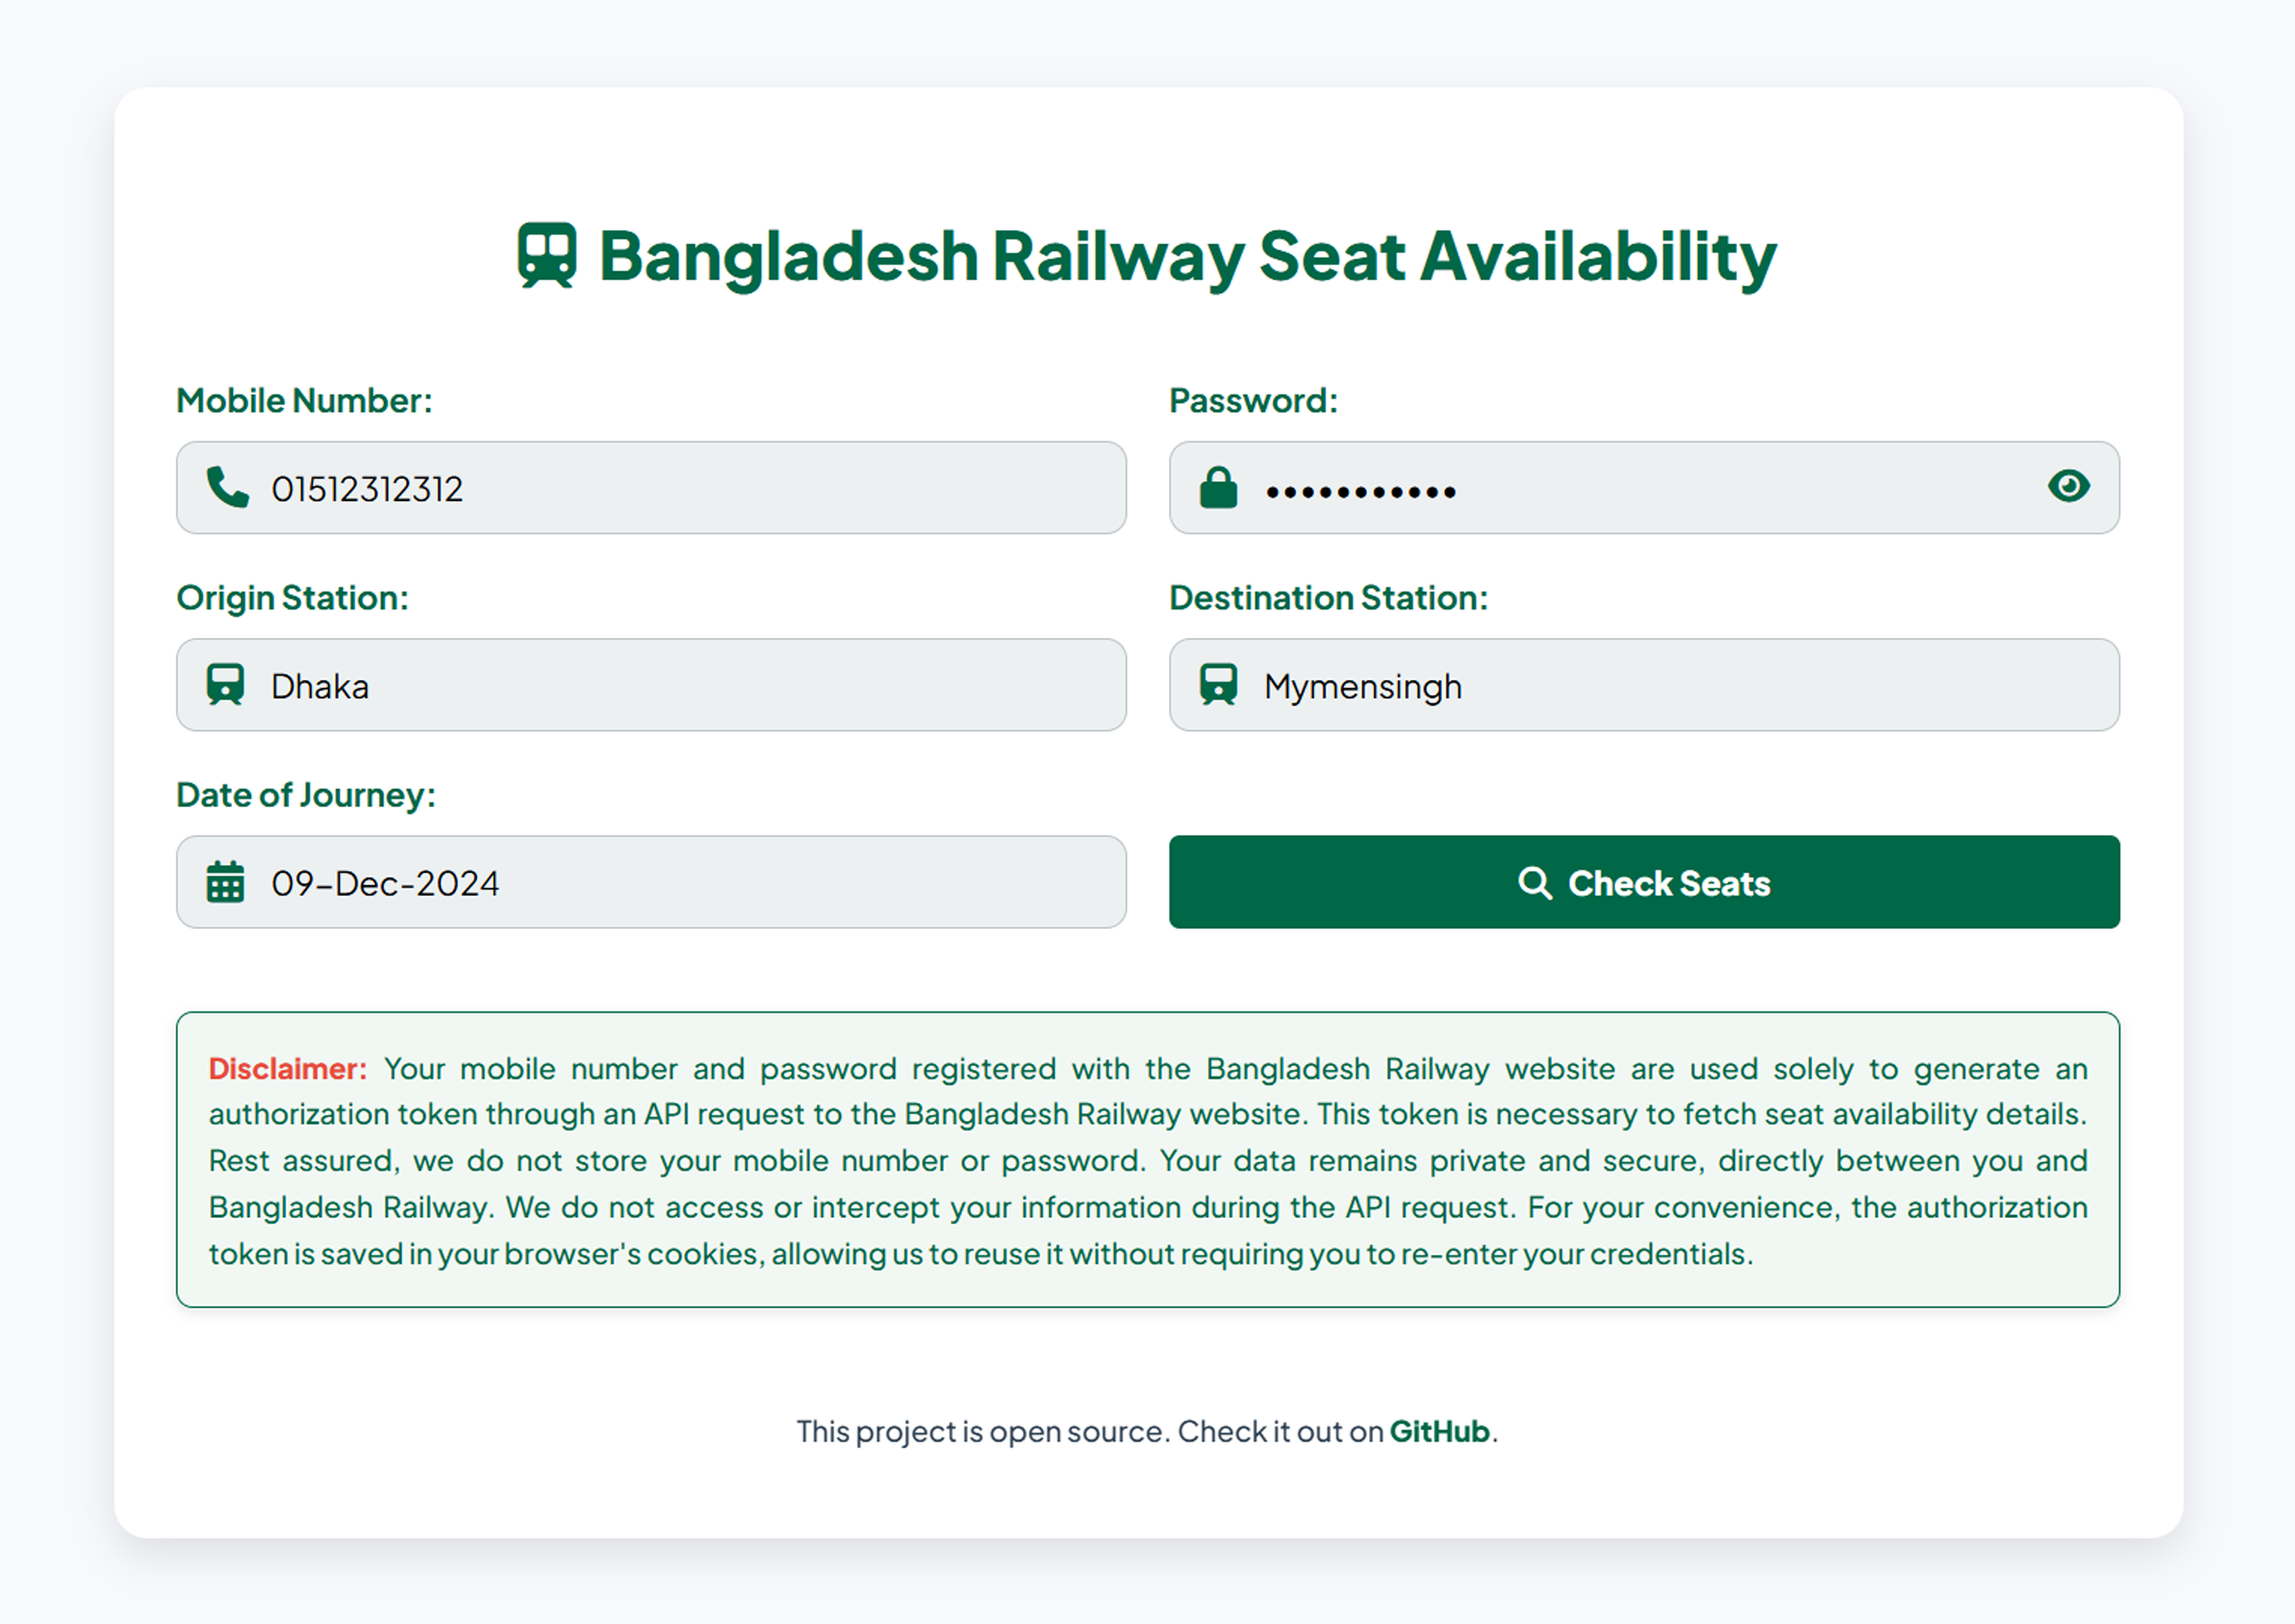
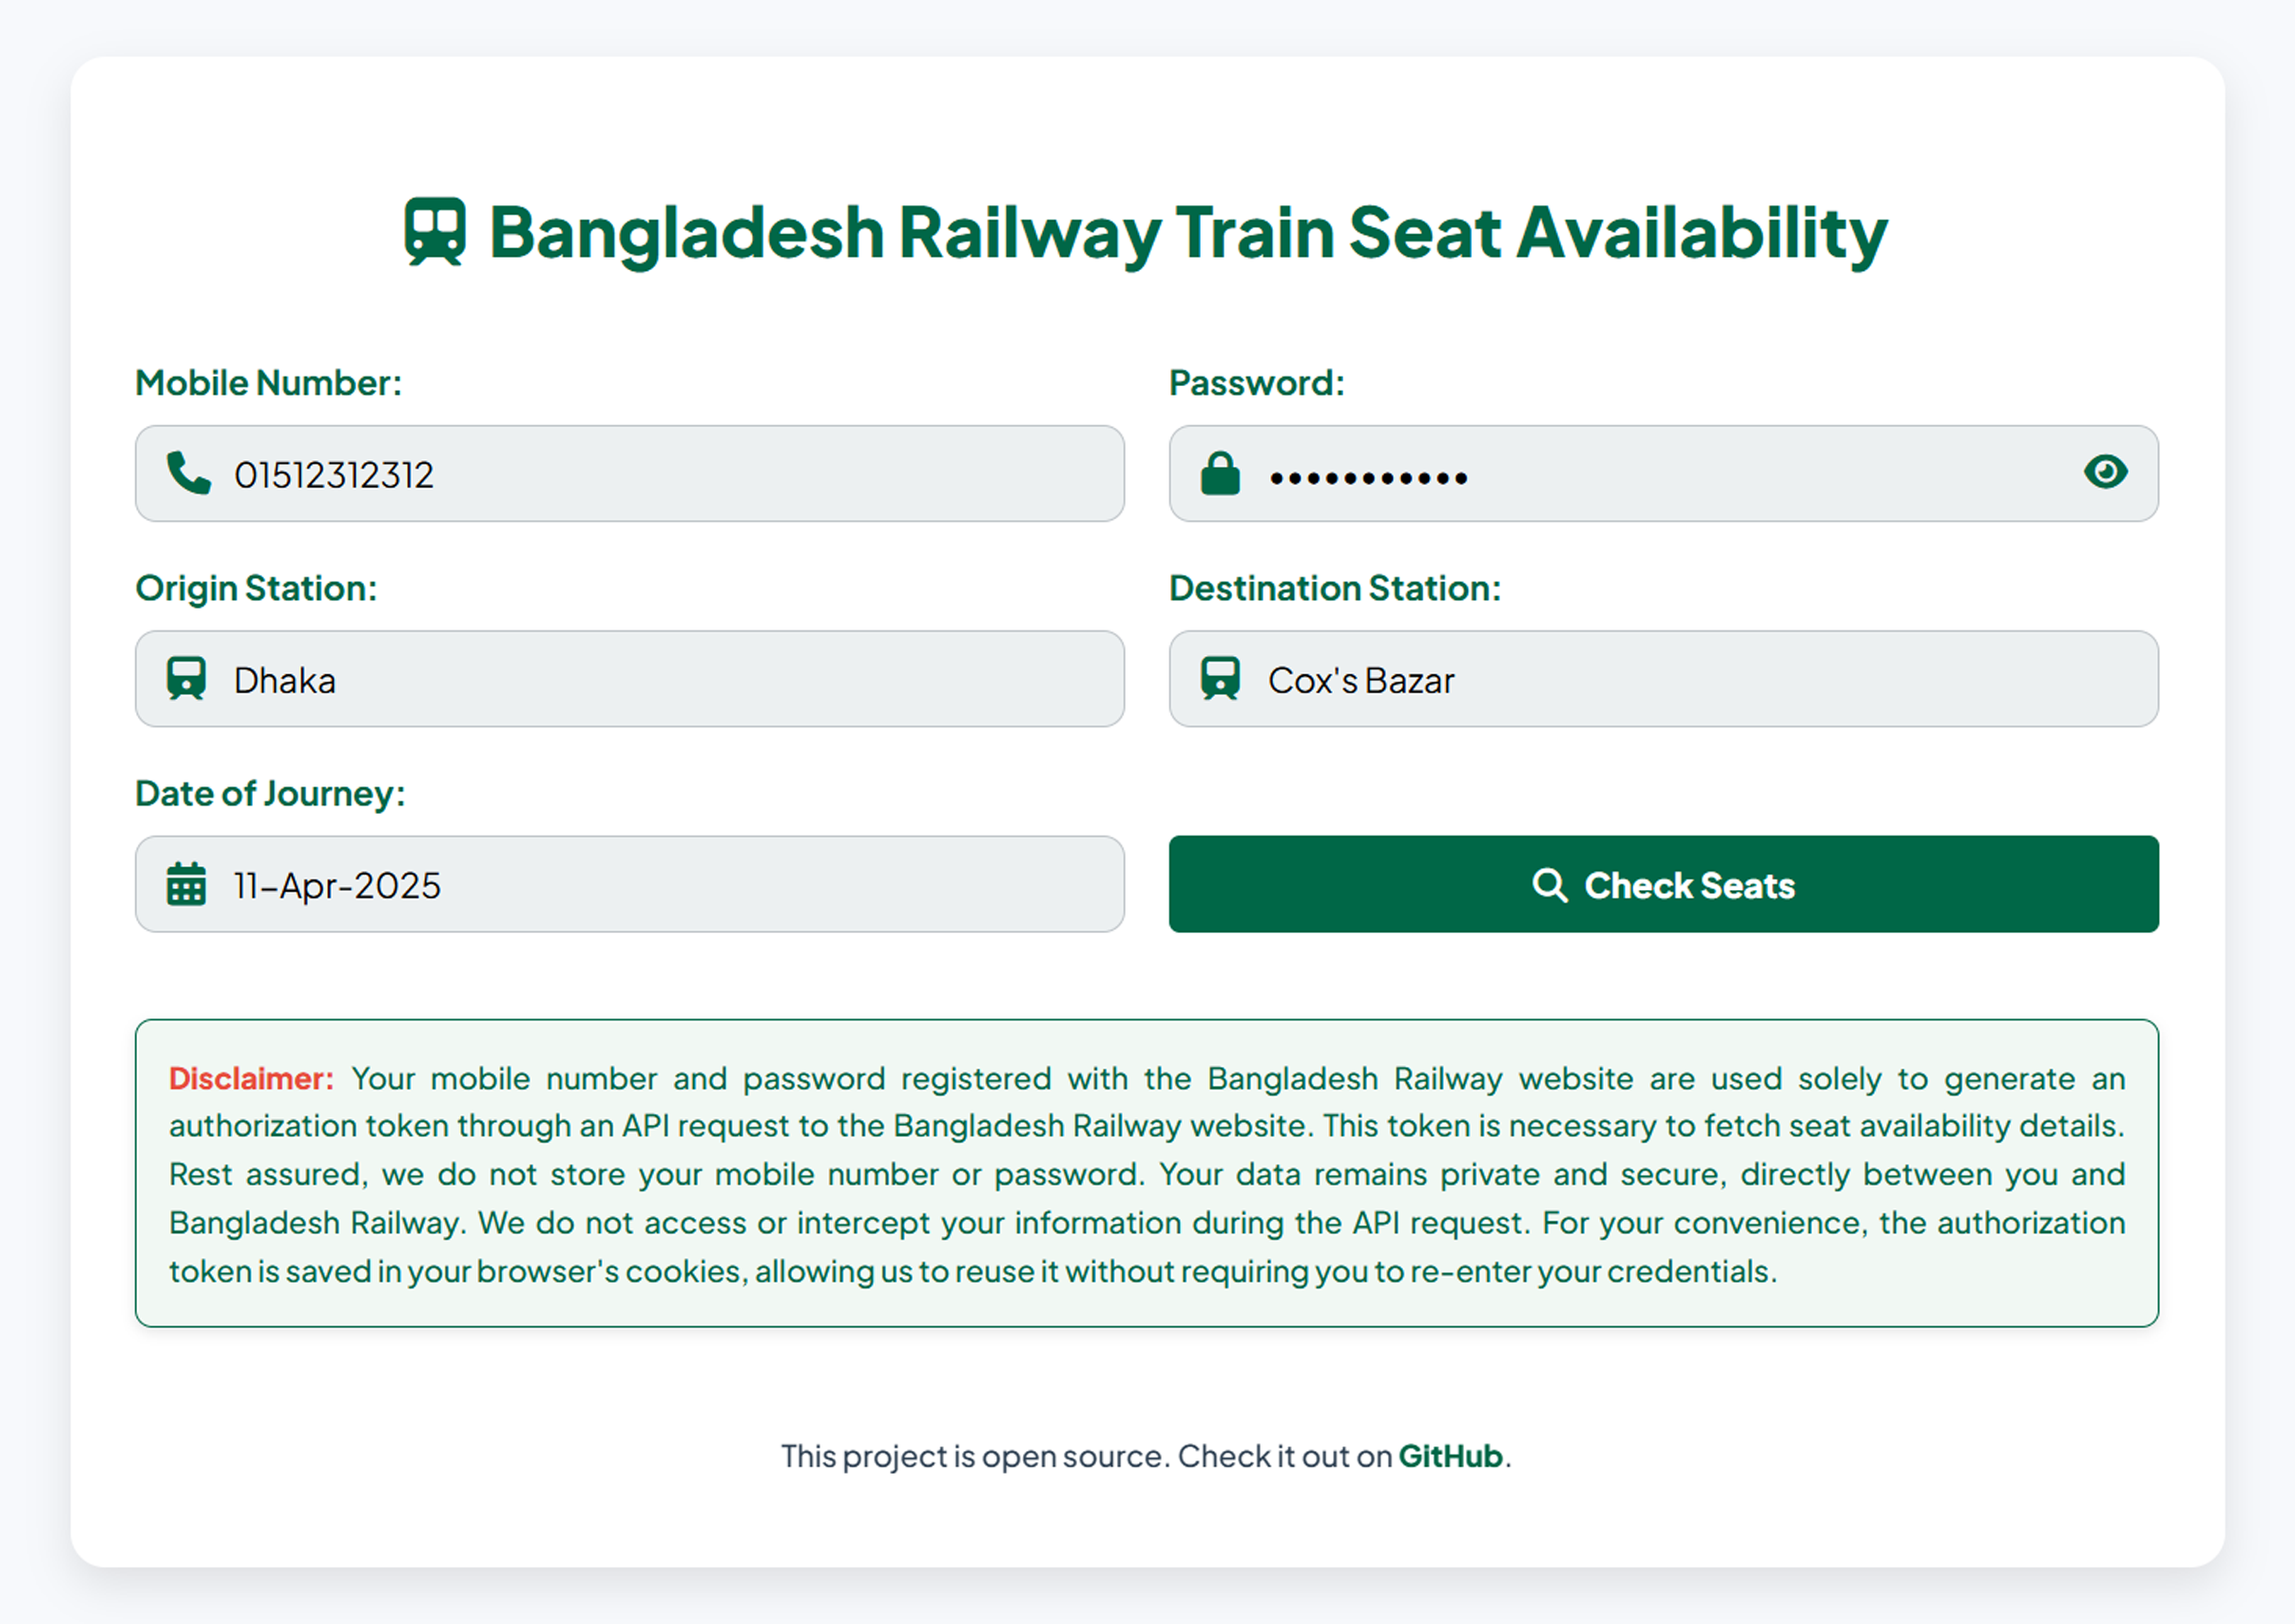
Minor UI Improvement

diff --git a/templates/results.html b/templates/results.html
@@ -57,12 +57,12 @@
             <h3><i class="fas fa-chair"></i> Seat Type: {{ seat_type['type'] }}</h3>
             <p>
                 <span class="status status-available">
-                    <i class="fas fa-check-circle"></i> Available Tickets: {{ seat_type['available_count'] }}
-                    {{ 'ticket' if seat_type['available_count'] == 1 else 'tickets' }}
+                    <i class="fas fa-check-circle"></i> Available: {{ seat_type['available_count'] }}
+                    {{ 'ticket' if seat_type['available_count'] <= 1 else 'tickets' }}
                 </span>
                 <span class="status status-in-process">
-                    <i class="fas fa-spinner"></i> In Booking Process: {{ seat_type['booking_process_count'] }}
-                    {{ 'ticket' if seat_type['booking_process_count'] == 1 else 'tickets' }}
+                    <i class="fas fa-spinner"></i> In Booking: {{ seat_type['booking_process_count'] }}
+                    {{ 'ticket' if seat_type['booking_process_count'] <= 1 else 'tickets' }}
                 </span>
             </p>
             <table>
@@ -79,16 +79,16 @@
                         <td class="status status-available">
                             <i class="fas fa-check-circle"></i> Available
                         </td>
-                        <td>{{ coach }} ({{ group['count'] }} {{ 'ticket' if group['count'] == 1 else 'tickets' }})</td>
+                        <td>{{ coach }} ({{ group['count'] }} {{ 'ticket' if group['count'] <= 1 else 'tickets' }})</td>
                         <td>{{ ', '.join(group['seats']) }}</td>
                     </tr>
                     {% endfor %}
                     {% for coach, group in seat_type['grouped_booking_process'].items() %}
                     <tr>
                         <td class="status status-in-process">
-                            <i class="fas fa-spinner"></i> In Booking Process
+                            <i class="fas fa-spinner"></i> In Booking
                         </td>
-                        <td>{{ coach }} ({{ group['count'] }} {{ 'ticket' if group['count'] == 1 else 'tickets' }})</td>
+                        <td>{{ coach }} ({{ group['count'] }} {{ 'ticket' if group['count'] <= 1 else 'tickets' }})</td>
                         <td>{{ ', '.join(group['seats']) }}</td>
                     </tr>
                     {% endfor %}

diff --git a/templates/index.html b/templates/index.html
@@ -13,9 +13,9 @@
     <meta name="publish_date" content="2024-12-09" scheme="YYYY-MM-DD">
 
     <!-- Open Graph Meta Tags -->
-    <meta property="og:title" content="Bangladesh Railway Seat Availability">
+    <meta property="og:title" content="Bangladesh Railway Train Seat Availability">
     <meta property="og:description" content="Easily check seat availability for Bangladesh Railway trains and plan your travel effortlessly.">
-    <meta property="og:image" content="https://raw.githubusercontent.com/nishatrhythm/Bangladesh-Railway-Seat-Availability-Web-Application/main/images/link_share_image.png">
+    <meta property="og:image" content="https://raw.githubusercontent.com/nishatrhythm/Bangladesh-Railway-Train-Seat-Availability-Web-Application/main/images/link_share_image.png">
     <meta property="og:image:width" content="1200">
     <meta property="og:image:height" content="630">
     <meta property="og:url" content="https://trainseat.vercel.app">
@@ -34,7 +34,7 @@
 <body>
     <div class="container">
         <h1>
-            <i class="fas fa-subway"></i> Bangladesh Railway Seat Availability
+            <i class="fas fa-subway"></i> Bangladesh Railway Train Seat Availability
         </h1>
         {% if token %}
         <form action="/clear_token" method="POST" style="display: inline;">
@@ -134,7 +134,7 @@
         {% endif %}
 
         <footer class="new-footer">
-            <p>This project is open source. Check it out on <a href="https://github.com/nishatrhythm/Bangladesh-Railway-Seat-Availability-Web-Application"
+            <p>This project is open source. Check it out on <a href="https://github.com/nishatrhythm/Bangladesh-Railway-Train-Seat-Availability-Web-Application"
                     target="_blank">GitHub</a>.</p>
         </footer>
     </div>

diff --git a/static/styles.css b/static/styles.css
@@ -534,8 +534,13 @@ button:hover {
     padding: 25px;
     border-radius: 10px;
     box-shadow: 0 4px 10px rgba(0, 0, 0, 0.1);
-    border: 1px solid #e6e6e6;
+    border: 1px solid #006747;
     animation: fadeInUp 0.8s ease-in-out;
+    transition: box-shadow 0.3s;
+}
+
+.train-card:hover {
+    box-shadow: 0 6px 16px rgba(0, 103, 71, 0.2);
 }
 
 .train-header {

diff --git a/app.py b/app.py
@@ -76,6 +76,9 @@ def check_seats():
             'date': request.form.get('date', '')
         }
 
+        form_values['origin'] = STATION_NAME_MAPPING.get(form_values['origin'], form_values['origin'])
+        form_values['destination'] = STATION_NAME_MAPPING.get(form_values['destination'], form_values['destination'])
+
         session['form_values'] = form_values
 
         token = request.cookies.get('token')

diff --git a/README.md b/README.md
@@ -1,8 +1,8 @@
-# Bangladesh Railway Seat Availability Web Application
+# Bangladesh Railway Train Seat Availability Web Application
 
-This document provides an in-depth explanation of the implementation logic, algorithms, API interactions, data fetching process, privacy measures, backend functionality, frontend capabilities, and technologies used in the Bangladesh Railway Seat Availability Web Application. This project is based on the script [`detailsSeatAvailability.py`](https://github.com/nishatrhythm/Bangladesh-Railway-Segmented-Seat-Matrix-and-Details-Seat-Availabilty/blob/main/detailsSeatAvailability.py) and extends its functionality into a full-fledged web application.
+This document provides an in-depth explanation of the implementation logic, algorithms, API interactions, data fetching process, privacy measures, backend functionality, frontend capabilities, and technologies used in the Bangladesh Railway Train Seat Availability Web Application. This project is based on the script [`detailsSeatAvailability.py`](https://github.com/nishatrhythm/Bangladesh-Railway-Segmented-Seat-Matrix-and-Details-Seat-Availabilty/blob/main/detailsSeatAvailability.py) and extends its functionality into a full-fledged web application.
 
-**Live Link**: [Bangladesh Railway Seat Availability](https://trainseat.vercel.app)
+**Live Link**: [Bangladesh Railway Train Seat Availability](https://trainseat.vercel.app)
 
 > Disclaimer: As onrender.com is the only free hosting site that specifically supports Singapore server hosting, it is used because Bangladesh Railway has restricted access to the e-Ticketing website from outside Bangladesh, except for Singapore. However, on the free plan, this hosting site freezes the hosted website if no user visits it within a 15-20 minute interval. As a result, you may experience a loading delay of around 45-50 seconds when accessing the site. After that, it will work fine.
 
